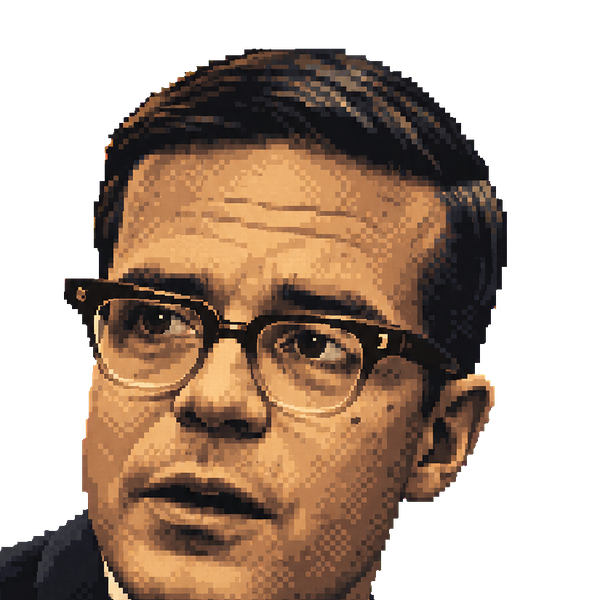
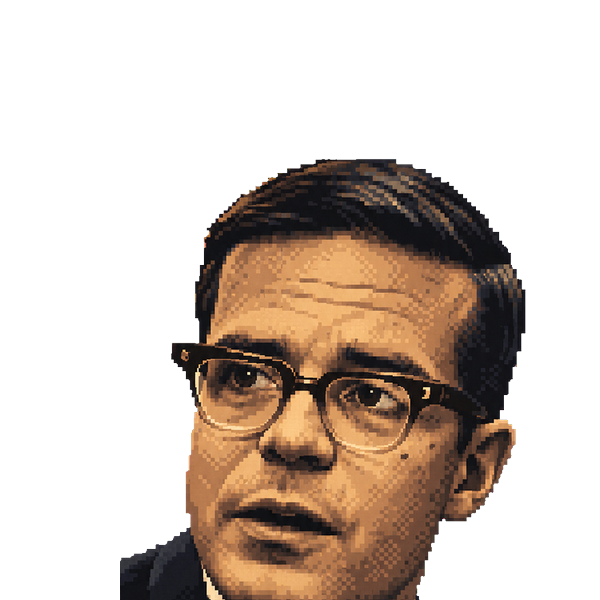
Ajustes de la primera prueba: debates, aviso del códex, hotspot, sprites, fotos
Debates corridos a la izquierda del globo; notify debajo de la fecha; cartas
por encima del hotspot; Anderson y LeMay a la escala del resto; bordes fuera
de destroyer y television; retrato de Sorensen alejado.

Claude-Session: https://claude.ai/code/session_01JvCHRr9eXwuxET2Q9A5xbT

diff --git a/CAMBIOS_BETA.md b/CAMBIOS_BETA.md
@@ -159,3 +159,14 @@ Después correr **Lint** (launcher de Ren'Py → Check Script) y jugar las rutas
   - A la izquierda, el conteo, la frase del objetivo y, al pasar el mouse por un final bloqueado, su pista (`hint` en `endings.json`).
   - Sello "NEW" sobre el final recién obtenido.
   - Al terminar una partida, en lugar de "Return" hay tres botones: NEW CRISIS, CODEX y MAIN MENU.
+
+---
+
+# Ajustes después de la primera prueba en Ren'Py
+
+- **Debates:** `duel_left` y `duel_right` corridos a la izquierda (`xpos` 680 y 1000), para que el globo de arriba a la derecha no tape al asesor.
+- **Aviso del códex:** `gui.notify_ypos` pasa de 68 a 150, debajo de la fecha.
+- **Hotspot debajo de las cartas:** `decision_folder` tiene ahora `zorder 95`, y el hotspot sigue en 90.
+- **Sprites de Anderson y LeMay:** normalizados a la altura de cabeza y la escala de los demás, porque flotaban.
+- **Fotos `destroyer` y `television`:** sin el borde claro.
+- **`PER-SORENSEN`:** alejado, para que entre la cabeza.
